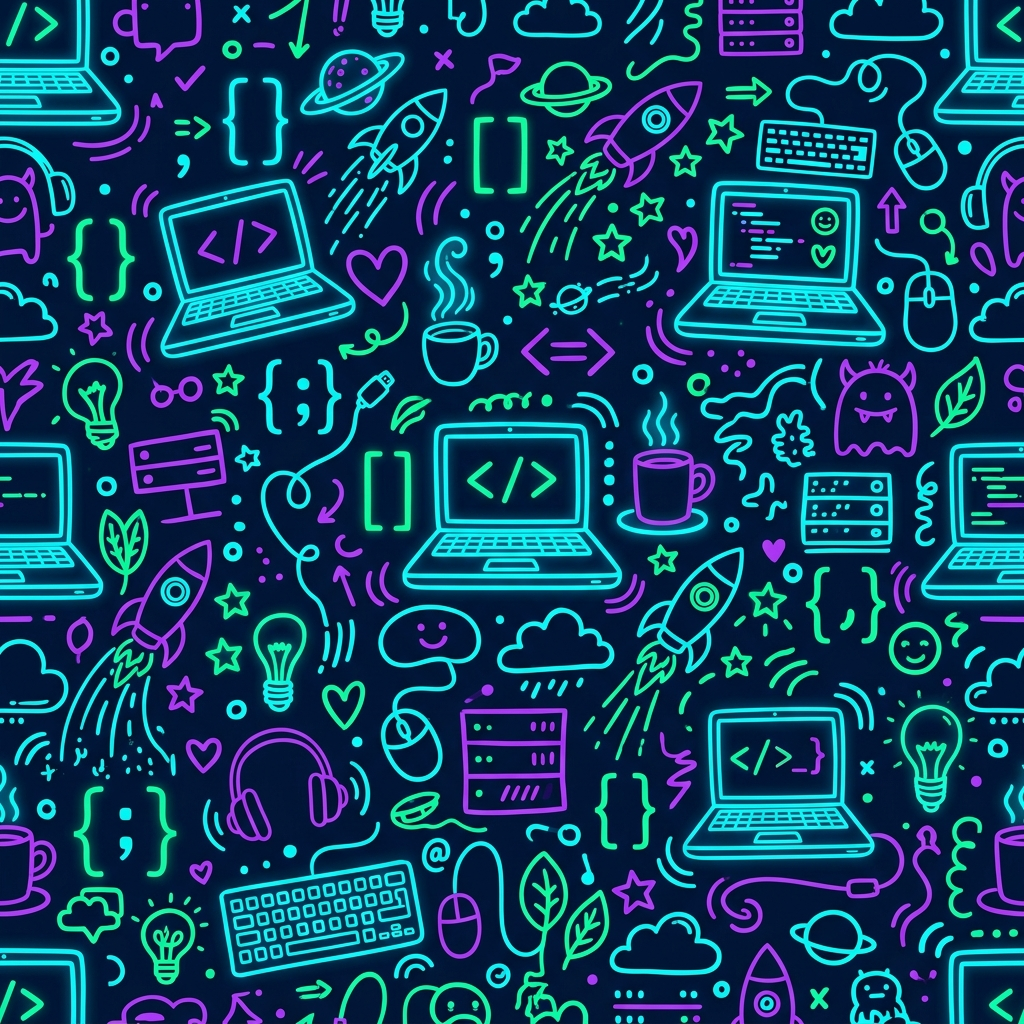
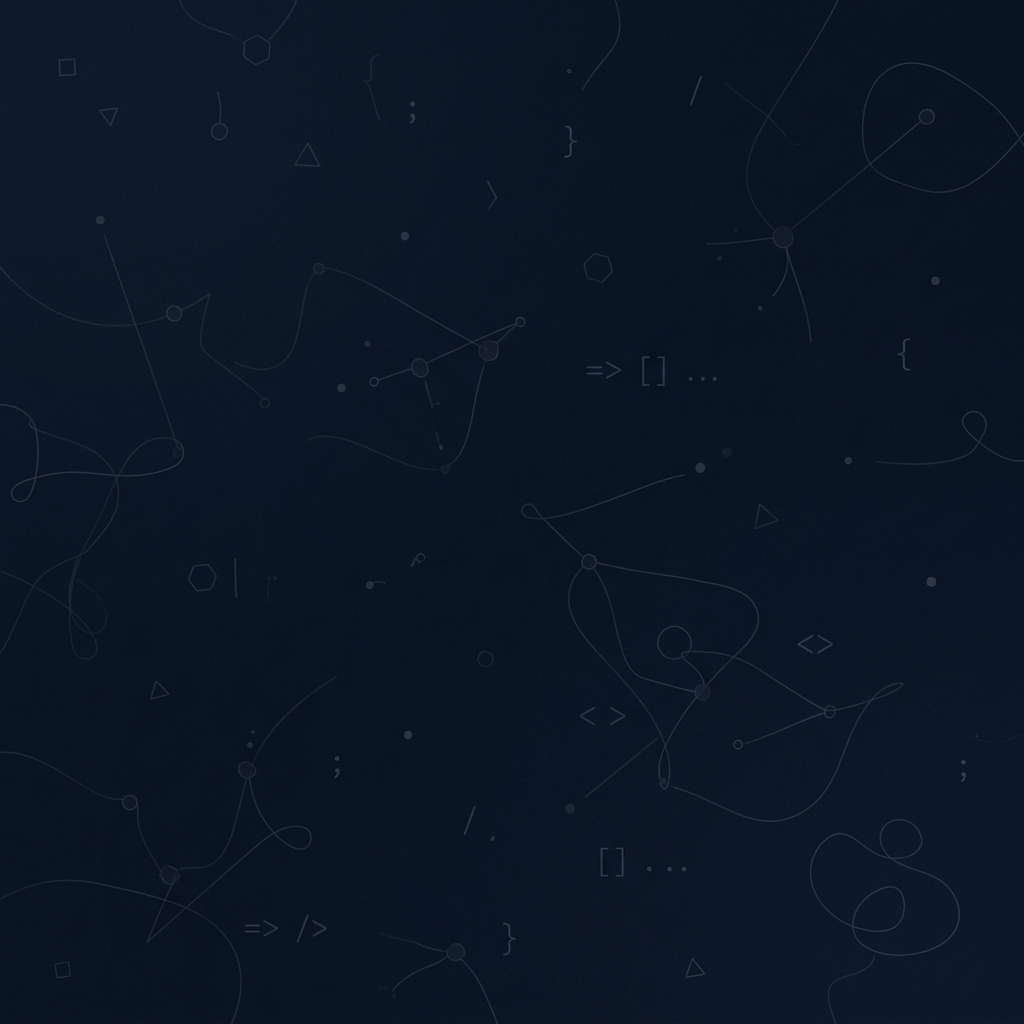
style: update background illustration image and increase its opacity

diff --git a/resources/js/Pages/Welcome.svelte b/resources/js/Pages/Welcome.svelte
@@ -194,7 +194,7 @@
         <div class="absolute inset-0 bg-[#020617]"></div>
         
         <!-- Playful Illustration Pattern -->
-        <div class="absolute inset-0 bg-[url('/images/bg-illustration.jpg')] bg-repeat bg-[length:600px_600px] opacity-[0.12]"></div>
+        <div class="absolute inset-0 bg-[url('/images/bg-illustration.jpg')] bg-repeat bg-[length:600px_600px] opacity-40"></div>
         
         <!-- Animated Overlay Gradient to make it dynamic -->
         <div class="absolute inset-0 bg-gradient-to-br from-sky-500/10 via-transparent to-indigo-500/10 mix-blend-color-dodge"></div>
